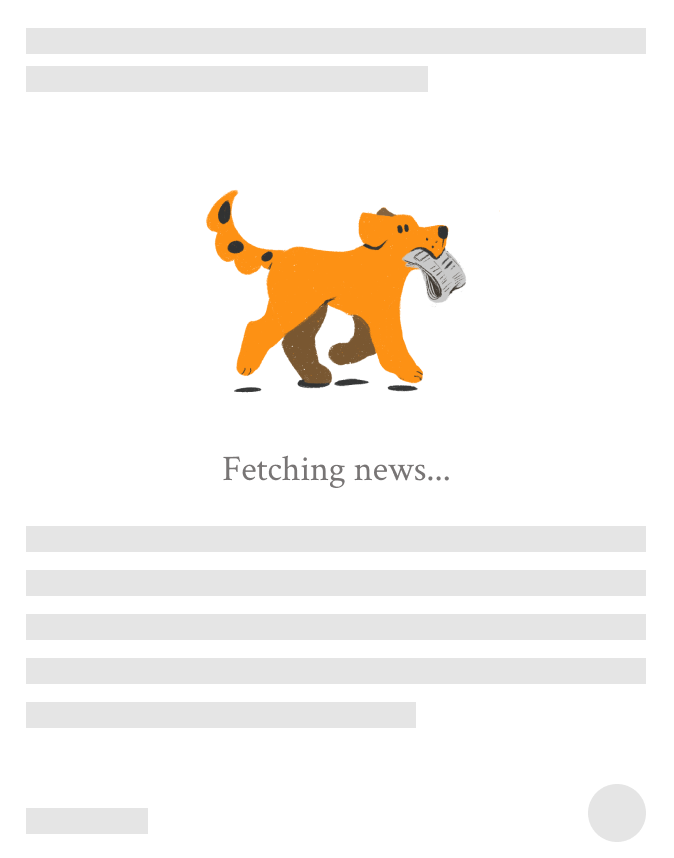
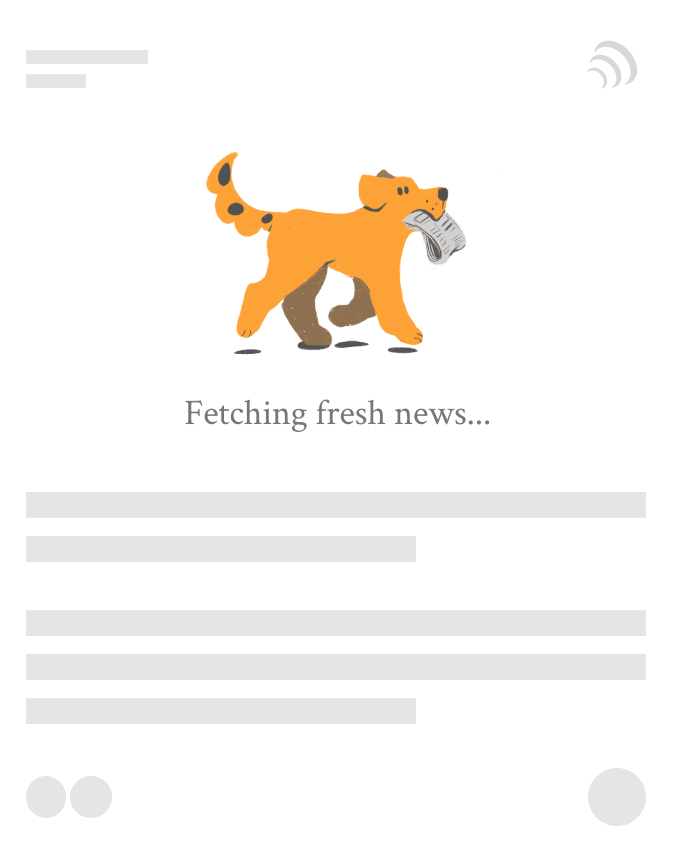
feed-search-complete

diff --git a/client-brahmaputra-v4/src/components/SearchFeed.js b/client-brahmaputra-v4/src/components/SearchFeed.js
@@ -25,6 +25,7 @@ function SearchFeed(props){
 	const [feedbackData,setFeedbackData]=useState("");
 
 	const [isSearching,setIsSearching]=useState(false)
+	const [noResult,setNoResult]=useState(false)
 
 	useEffect(() => {
     	return () => {
@@ -74,7 +75,7 @@ function SearchFeed(props){
 
 	const fetchFeed = ()=>{
 		setEndFeed(false)
-
+		setNoResult(false)
 		if(feedConfig.type==="search"){
 			preventScroll(true)
 			setIsSearching(true)
@@ -89,8 +90,6 @@ function SearchFeed(props){
 				setFetchReady(true)
 				setLastPage(lastPage+1)
 
-
-
 				if(feedConfig.type==='search'){
 					preventScroll(false)
 					setEndFeed(true)
@@ -101,11 +100,12 @@ function SearchFeed(props){
 					if(feedConfig.type==='feed'){
 						setFetchNow(true)
 					}else{
+						setNoResult(true)
 						setEndFeed(true)
 					}
 				}
 
-			},1000)
+			},2000)
 
 		});
 
@@ -116,11 +116,11 @@ function SearchFeed(props){
 		<React.Fragment>
 			<FeedbackForm cardData={feedbackData} showFeedback={showFeedback} setShowFeedback={setShowFeedback}/>
 			<div className="NewsFeed">
-				{(feedConfig.type==="search")&&<div className="FeedDesc">{"Search results : "+feedConfig.term}</div>}
-				{feedFormat(feedData,props.langSel,setFeedbackData,{hope:true})}
+				{feedFormat(feedData,props.langSel,setFeedbackData,props.hope)}
+				{noResult&&<img className="NoResult" src={require('../assets/no-result.png')}/>}
 			</div>
 			{(!endFeed)&&<div className="SkeletonHolder">
-				<img className="NewsCardSkeleton" src={require('../assets/card-skeleton-fetch.png')} alt="Card Skeleton"/>
+				<img className="NewsCardSkeleton" src={require('../assets/card-skeleton-'+(feedConfig.type==="search"?"search.png":"fetch.png"))} alt="Card Skeleton"/>
 				<div className="SkeletonOverlay"></div>
 			</div>}
 		</React.Fragment>

diff --git a/client-brahmaputra-v4/src/components/css/Components.css b/client-brahmaputra-v4/src/components/css/Components.css
@@ -76,12 +76,12 @@
 	position: absolute;
 	width: 94vw;
 	margin-left: 3vw;
-	height: 120vw;
-	background: linear-gradient(90deg, rgba(255,255,255,0) 0%, rgba(255,255,255,0.7) 30%, rgba(255,255,255,0) 60%, rgba(255,255,255,0) 100%);
+	height: 60vw;
+	margin-top: 60vw;
+	background: linear-gradient(90deg, rgba(255,255,255,0) 0%, rgba(255,255,255,0.5) 30%, rgba(255,255,255,0) 60%, rgba(255,255,255,0) 100%);
 	animation: load 1s ease-out infinite;
 	background-repeat: no-repeat;
 	background-position: -20vw 0vw;
-
 }
 
 @keyframes load {
@@ -95,21 +95,11 @@
 	width: 94vw;
 	margin-left: 3vw;
 	border-radius: 1.5vw;
-	box-shadow: 0px 0px 10px rgba(98, 98, 98, 0.3);
+	box-shadow: 0px 0px 10px rgba(136, 136, 136, 0.2);
 }
 
-.AutoTransSwitch{
-	width: 80vw;
-	line-height: 10vw;
-	text-align: center;
-	height: 10vw;
-	background-color: #D3D3D3;
-	border-radius: 2vw;
-	margin-left: 10vw;
-	margin-top: 5vw;
-}
-
-.AutoTransSwitchSel{
-	background: linear-gradient(45deg, #FFAF50, #FFC450);
+.NoResult{
+	width: 94vw;
+	margin-left: 3vw;
 }
 /*--- END FEED ---*/

diff --git a/client-brahmaputra-v4/src/components/css/NewsCard.css b/client-brahmaputra-v4/src/components/css/NewsCard.css
@@ -14,18 +14,21 @@
 }
 .NewsCard{
 	background-color: #ffffff;
-	box-shadow: 0px 0px 10px rgba(136, 136, 136, 0.3);
+	box-shadow: 0px 0px 7px rgba(136, 136, 136, 0.3);
 	border-radius: 2vw;
 	margin-bottom: 9vw;
 	transition: 0.3s;
 	display: block;
 	padding-top: 3vw;
-	padding-bottom: 2vw;
+	padding-bottom: 3vw;
 	text-align: left;
+	box-shadow: inset 0px 0px 10px 0px rgba(136, 136, 136, 0.15), 0px 0px 7px rgba(136, 136, 136, 0.3);
 }
 .NewsCardHope{
-	box-shadow: 0px 0px 10px 5px rgba(253, 154, 20, 0.2);
-	box-shadow: 0px 0px 10px 10px rgba(57, 147, 216, 0.1);
+	box-shadow: inset 0px 0px 10px 10px rgba(57, 147, 216, 0.1);
+	box-shadow: inset 0px 0px 10px 0px rgba(253, 154, 20, 0.18), 0px 0px 7px rgba(136, 136, 136, 0.3);
+	box-shadow: inset 0px 0px 15px 0px rgba(57, 147, 216, 0.2), 0px 0px 7px rgba(136, 136, 136, 0.3);
+
 }
 .NewsCardHide{
 	display: none;

diff --git a/client-brahmaputra-v4/src/components/TitleBar.js b/client-brahmaputra-v4/src/components/TitleBar.js
@@ -85,7 +85,6 @@ function TitleBar(props){
 			<div onClick={()=>scrollToTop()} className="TitleBar">
 			{props.showBack&&<img onClick={()=>{window.history.back()}} src={require('../assets/back.png')} alt="back" className="TitleBack"/>}
 				<div className="TitleBarText">{props.title}</div>
-				<img className={"TitleBarIcon"} src={require('../assets/moon.png')} alt="Dark"/>
 				{props.search&&<img onClick={(e)=>{e.stopPropagation();setShowSearch(true)}} className={"TitleBarIcon"} src={require('../assets/search.png')} alt="Search"/>}
 				{showSearch&&<SearchInterface setNavHide={props.setNavHide} setShowSearch={setShowSearch} setSearchKey={setSearchKey}/>}
 			</div>

diff --git a/client-brahmaputra-v4/src/pages/Hope.js b/client-brahmaputra-v4/src/pages/Hope.js
@@ -35,8 +35,8 @@ function Hope(props) {
 			<img className="HopeTitle" src={require("../assets/hope-title.png")}/>
 			<div className="HopeBg"></div>
 			<LangSetting defaultLang={langSel} changeLang={setLangSel} hope={true}/>
-			<div className="HopeDesc">Dearly curated with the hope to bring positive new to light</div>
-			{_isMounted.current && <SearchFeed langSel={langSel} pageSize={5} feedConfig={feedConfig}/>}
+			<div className="HopeDesc">Dearly curated with the hope to bring positive news to light</div>
+			{_isMounted.current && <SearchFeed langSel={langSel} pageSize={5} feedConfig={feedConfig} hope={true}/>}
 			<Navbar/>
 		</div>
 	);

diff --git a/client-brahmaputra-v4/src/components/css/TitleBar.css b/client-brahmaputra-v4/src/components/css/TitleBar.css
@@ -41,14 +41,12 @@
 .TitleBarIcon{
 	float: right;
 	width: 6vw;
-	margin-top: 2vw;
-	margin-right: 2vw;
+	margin-top: 2.5vw;
+	margin-right: 5vw;
 	opacity: 0.5;
 }
 
-.TitleBarIcon:first-of-type{
-	margin-right: 3vw;
-}
+
 
 .TitleBarSearchPanel{
 
@@ -86,10 +84,10 @@
 	position: absolute;
 }
 .TitleBarSearchBtn{
+	float: right;
 	width: 6vw;
-	vertical-align:middle;
-	padding-bottom: 2vw;
-	margin-left: 0vw;
+	margin-top: 2.5vw;
+	margin-right: 5vw;
 	opacity: 0.5;
 }
 

diff --git a/client-brahmaputra-v4/src/components/css/LangSetting.css b/client-brahmaputra-v4/src/components/css/LangSetting.css
@@ -15,7 +15,7 @@
 	background-color: #ffffff;
 	margin-left: 1.5vw;
 	margin-right: 1.5vw;
-	box-shadow: 0px 0px 10px rgba(136, 136, 136, 0.3);
+	box-shadow: 0px 0px 10px rgba(136, 136, 136, 0.35);
 	-webkit-tap-highlight-color: rgba(0,0,0,0);
 	-webkit-tap-highlight-color: transparent;
 	-moz-user-select: none;
